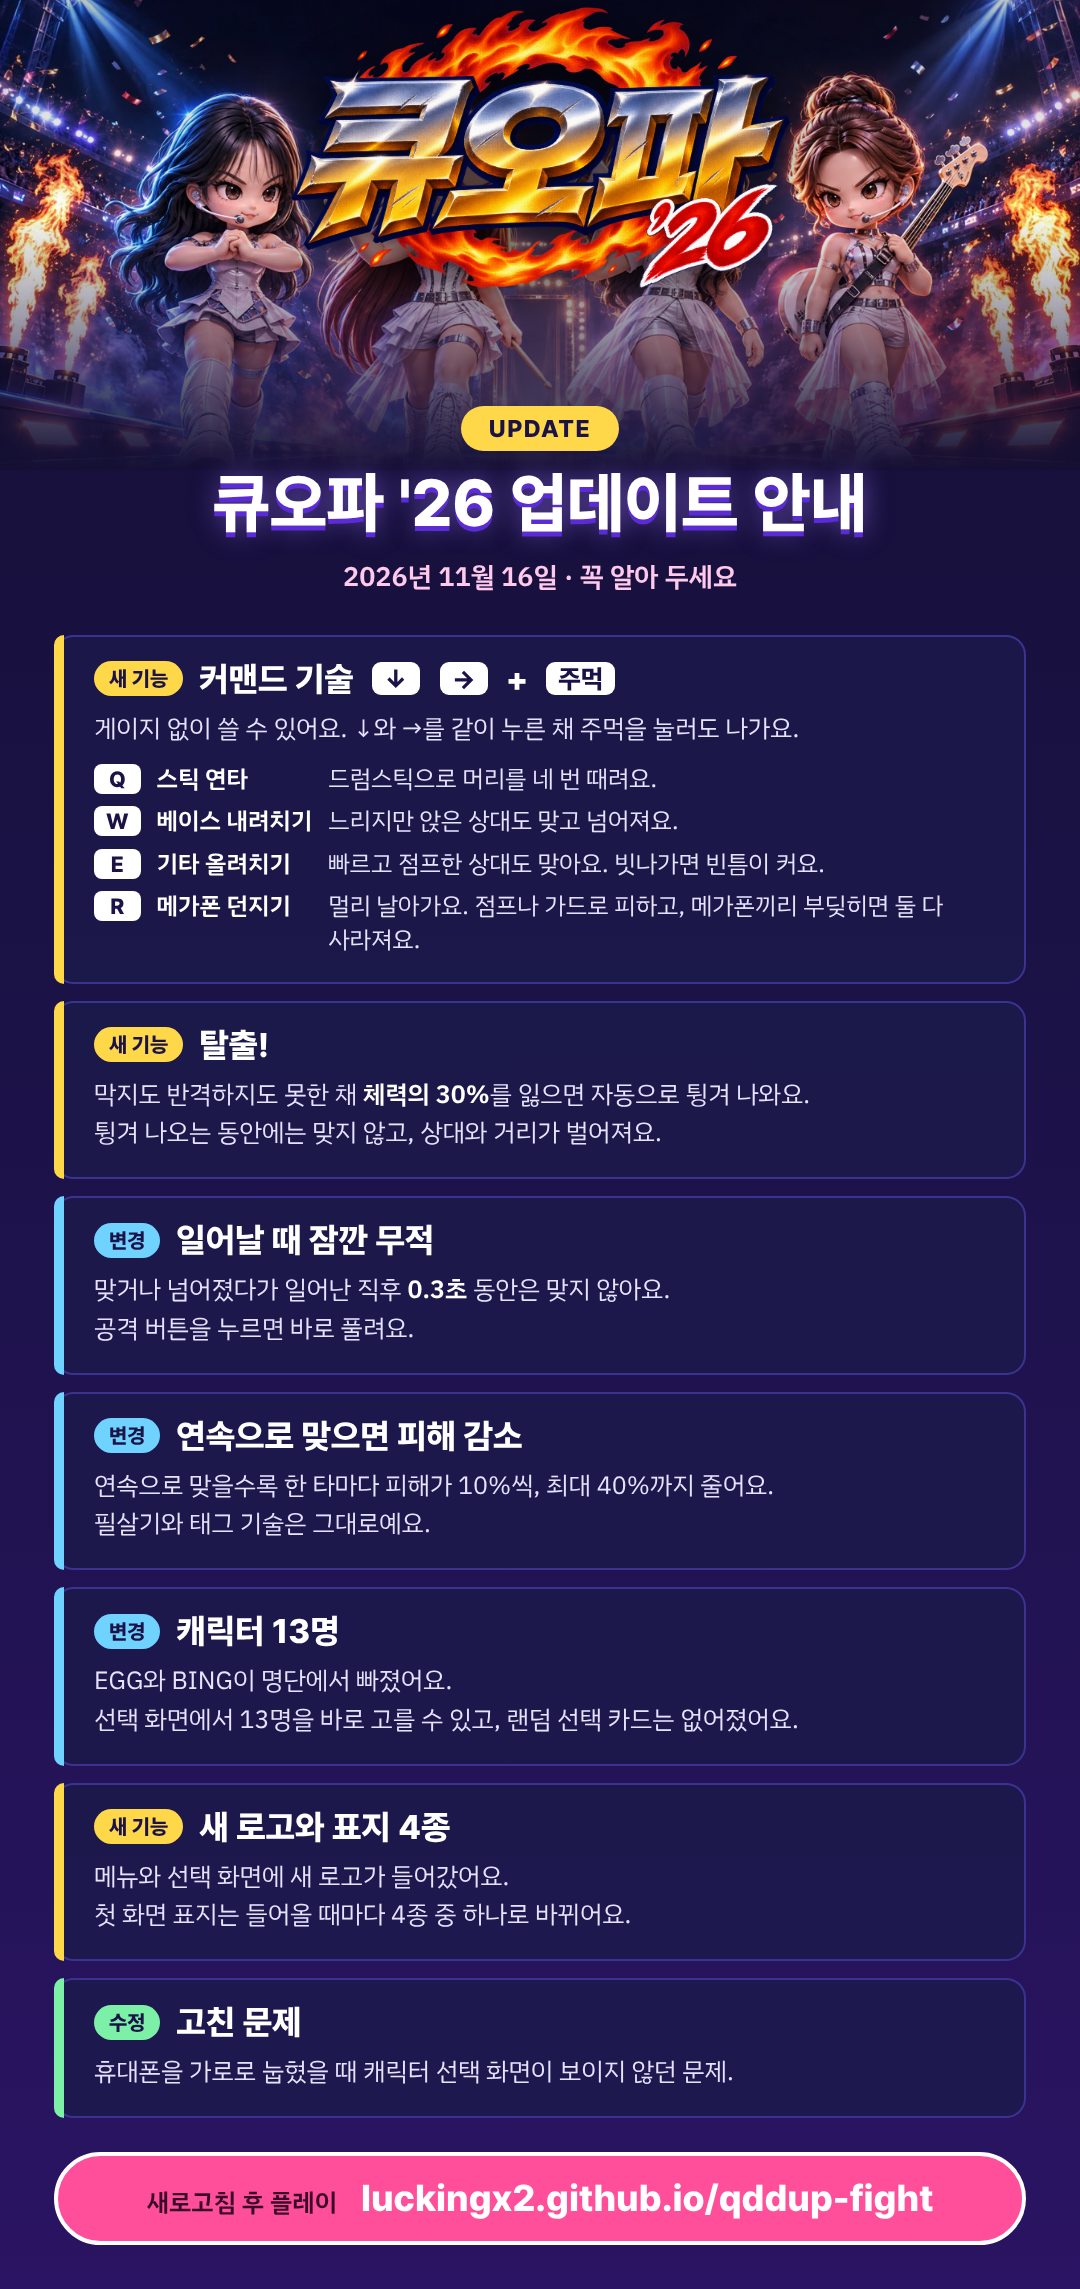
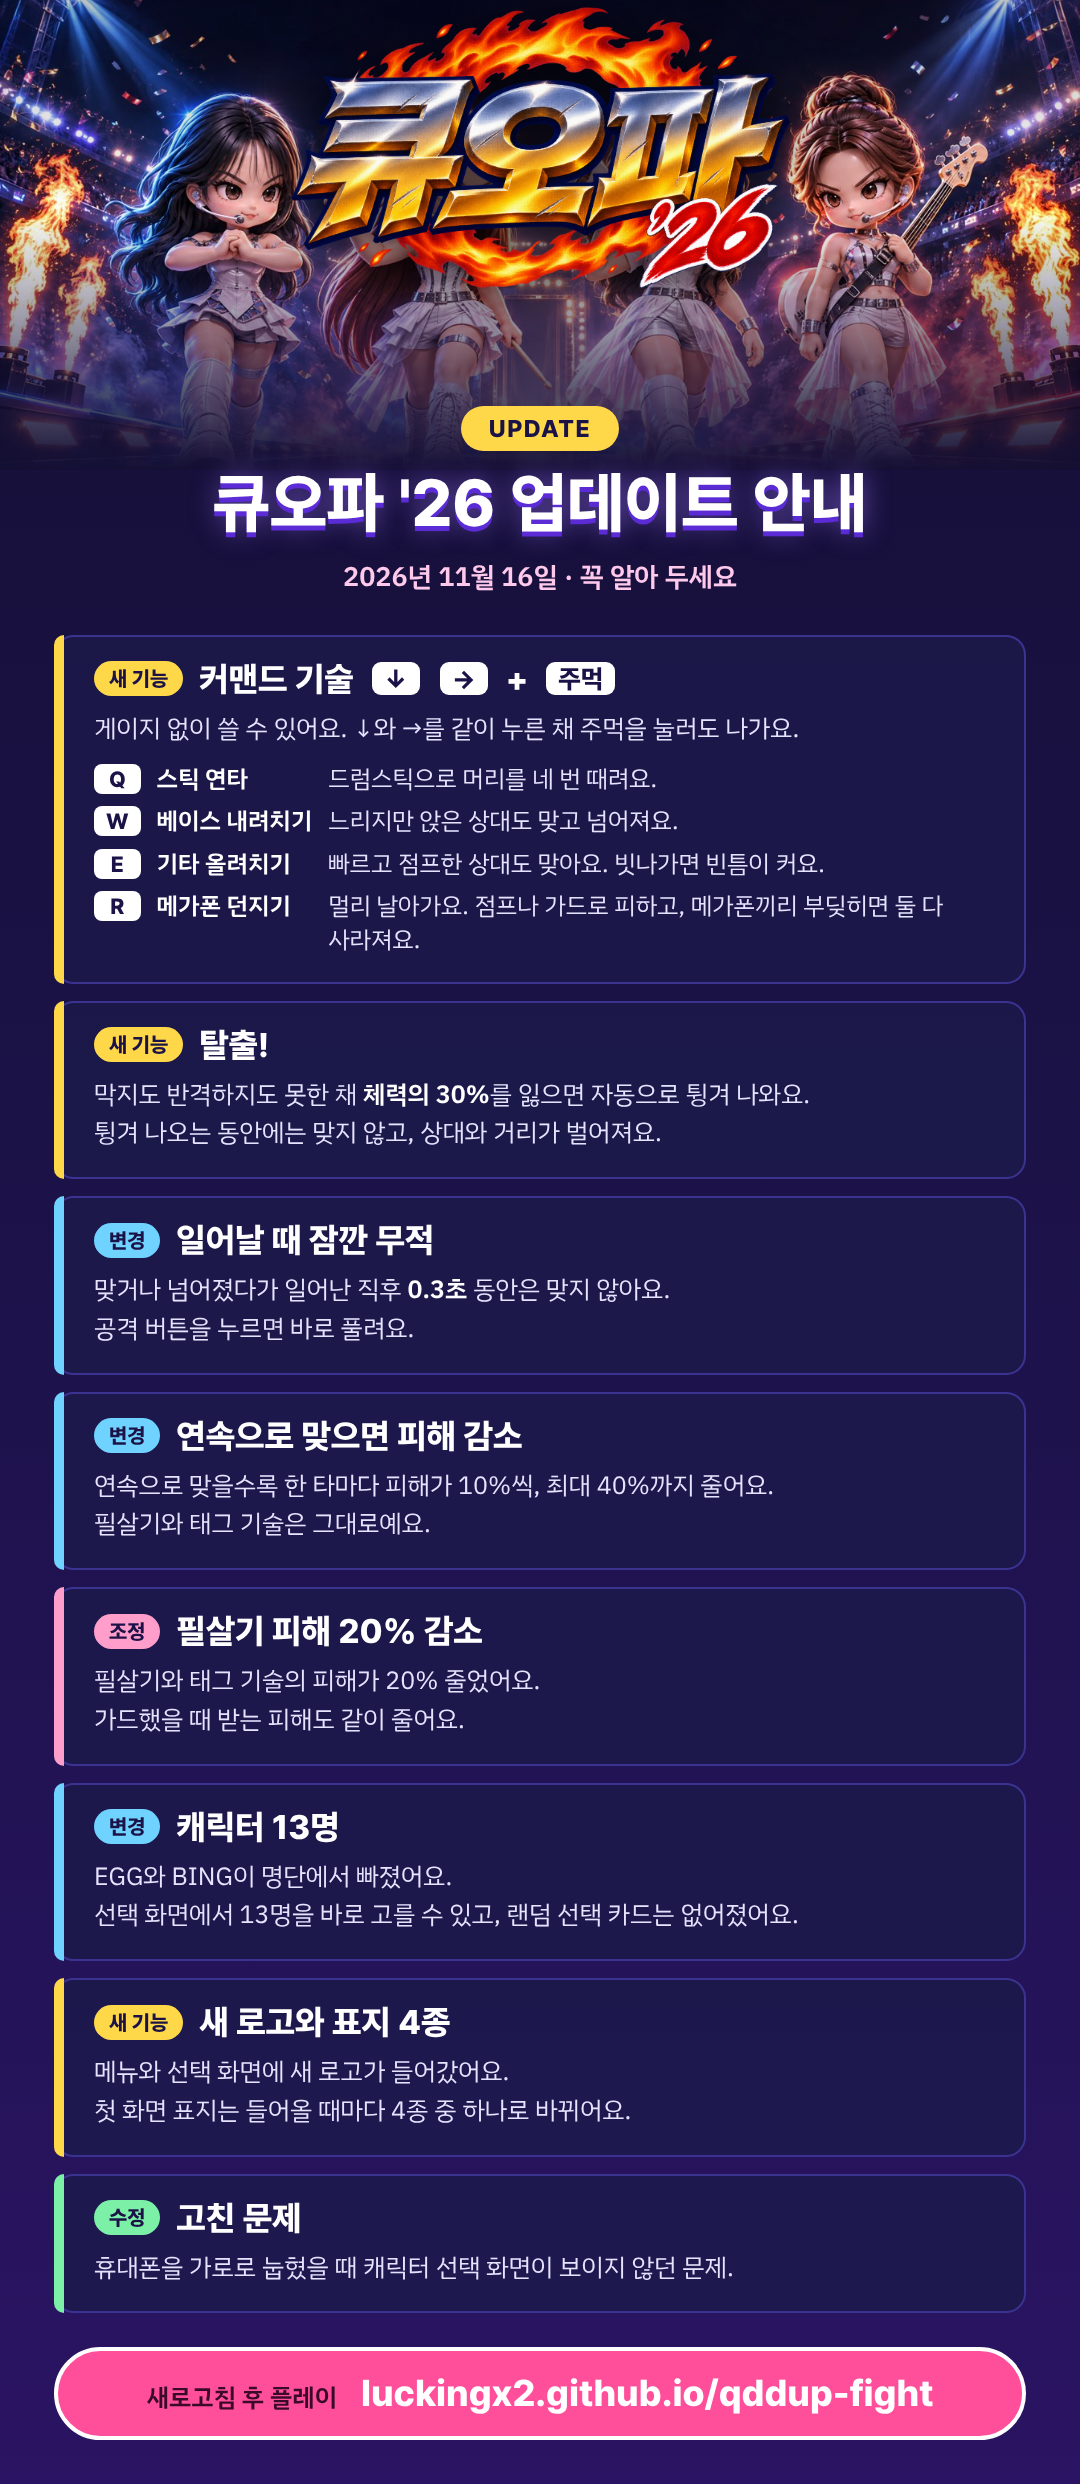
필살기·태그기 피해 20% 감소, 안내문 갱신 (배포 전)
Claude-Session: https://claude.ai/code/session_01NdxQTKJmcwDMuki8kQYjr5

diff --git a/tools/sim/measure_sp.js b/tools/sim/measure_sp.js
@@ -1,0 +1,15 @@
+;(function(){
+// CPU 대 CPU로 돌려 라운드당 필살기·태그 사용 횟수와 피해 비중을 잰다
+const DT=T.DT;let rounds=0,use=[0,0,0,0,0],spDmg=0,allDmg=0,tag=0,maxSp=0,ko=0,dur=0,spKills=0;
+const _apply=applyHit;applyHit=function(f,o,a){const h=o.hp;_apply(f,o,a);const d=h-o.hp;if(d>0){allDmg+=d;if(a.sp){spDmg+=d;if(o.hp<=0)spKills++}}};
+const _cut=startCut;startCut=function(f){f.spUse=(f.spUse||0)+1;if(f.sv===2)tag++;_cut(f)};
+for(let rep=0;rep<3;rep++)for(const a of ORDER)for(const b of ORDER){if(a===b)continue;
+  T.boot(a,b,3);think=T.think0;P.cpu=true;P.spUse=C.spUse=0;
+  let i=0;for(;i<60*62&&phase==='fight';i++){think(P,C,DT);const s=P.inp,h={l:s.l,r:s.r,up:s.up,down:s.down};held.l=h.l;held.r=h.r;held.up=h.up;held.down=h.down;buf.p=s.p?.05:0;buf.k=s.k?.05:0;buf.s=s.s?.05:0;buf.t=s.t?.05:0;buf.g=s.g?.05:0;P.inp.gd=s.gd;update(DT)}
+  rounds++;dur+=i/60;if(phase==='ko')ko++;
+  for(const f of[P,C]){const n=Math.min(4,f.spUse||0);use[n]++;maxSp=Math.max(maxSp,f.spUse||0)}}
+const tot=use.reduce((x,y)=>x+y,0);
+console.log('라운드',rounds,'평균 길이(초)',(dur/rounds).toFixed(1),'KO로 끝남',(ko/rounds*100).toFixed(0)+'%');
+console.log('한 라운드에 한 명이 쓴 필살기+태그 횟수 분포 0/1/2/3/4+:',use.map(n=>(n/tot*100).toFixed(0)+'%').join(' / '),'최대',maxSp);
+console.log('전체 피해 중 필살기·태그 비중',(spDmg/allDmg*100).toFixed(0)+'%','필살기로 끝난 KO',(spKills/Math.max(1,ko)*100).toFixed(0)+'%');
+})();

diff --git a/js/fight.js b/js/fight.js
@@ -28,6 +28,8 @@ function dust(x){for(let i=0;i<8;i++)fx.push({k:'p',x:x+(Math.random()-.5)*80,y:
 let zone=null,flood=null;
 // 연속 피격 보호: 타수마다 피해 감소, 한도를 넘으면 맞던 쪽이 무적으로 튕겨 나감, 경직·다운이 풀린 직후 잠깐 무적
 const COMBO={step:.1,floor:.6,limit:.3,window:2,wake:.3};
+// 필살기·태그기 피해 전체 배율 (1이면 예전 그대로)
+const SPECIAL_POWER=.8;
 function breakAway(f,o){
   o.pr=0;o.brk=0;if(o.hp<=0||o.st==='ko')return;
   setSt(o,'kd');o.stun=.7;o.down=false;o.vy=430;o.y=Math.max(o.y,.01);o.vx=(o.x>=f.x?1:-1)*620;o.lock=1;o.inv=1.3;
@@ -36,7 +38,7 @@ function breakAway(f,o){
   fx.push({k:'d',x:o.x,y:GROUND-o.y-330,t:0,d:1,txt:'탈출!'});shake=Math.max(shake,10)}
 function applyHit(f,o,a){
   if(o.lock===1&&!a.pj||o.st==='charge'||o.inv>0)return;
-  let damage=a.dmg*(a.sp?CH[f.ch].special:1);
+  let damage=a.dmg*(a.sp?CH[f.ch].special*SPECIAL_POWER:1);
   const hx=(f.x+o.x)/2+f.face*20,hy=GROUND-o.y-(a.hy||130);
   if(o.st==='guard'&&o.y<=0&&o.face===-f.face&&!a.ub){
     o.hp=Math.max(1,o.hp-damage*(a.sp?.28:.1)*CH[o.ch].guard);o.vx=f.face*a.push*.45;o.t=Math.min(o.t,.05);o.stun=.14;

diff --git a/index.html b/index.html
@@ -145,7 +145,7 @@
 <script src="js/controls.js?v=e72aa610"></script>
 <script src="js/cutin.js?v=de670ff4"></script>
 <script src="js/emote.js?v=fe681610"></script>
-<script src="js/fight.js?v=a274b995"></script>
+<script src="js/fight.js?v=d7c3f1d4"></script>
 <script src="js/ai.js?v=1de03b4e"></script>
 <script src="js/update.js?v=bd9d78fe"></script>
 <script src="js/render.js?v=04638836"></script>

diff --git a/TODO.md b/TODO.md
@@ -614,3 +614,12 @@
 - `index.html`의 빌드 번호를 20261116105500으로 변경, `stamp.py` 실행
 - 이용자용 안내문 `RELEASE_NOTES.md` 추가
 - 이용자용 업데이트 안내 이미지 `notice/update-notice-1116.png`(1080×2289) 추가. 기존 `update-notice.png`와 같은 형식에 새 로고와 표지 그림을 얹음. 게임에서는 쓰지 않음
+
+**필살기 피해 20% 감소 (개발 중, 아직 배포 안 함)**
+- 사용자 요청: 필살기를 라운드당 횟수 제한하거나 파워를 낮추거나 둘 중 하나
+- 측정(`tools/sim/measure_sp.js`, 컴퓨터끼리 468라운드): 한 라운드에 한 명이 필살기·태그를 쓴 횟수는 0회 7%, 1회 92%, 2회 1%, 3회 이상 없음. 횟수 제한(1회)은 지금과 거의 차이가 없어 파워를 낮추는 쪽으로 결정
+- `fight.js`의 `SPECIAL_POWER=.8`: 필살기·태그기(`sp`) 피해 전체에 곱함. 가드 피해도 같이 줄어듦. 커맨드 기술·마무리 기술·잡기는 해당 없음
+- 측정(수정 후): 전체 피해 중 필살기·태그 비중 16% → 13%. 라운드 평균 길이 19.7초 → 19.9초
+- 사람끼리 대전에서는 맞을 때 게이지가 더 빨리 차서 2회 쓰는 경우가 컴퓨터보다 많을 수 있음(미측정). 필요하면 횟수 제한을 추가
+- 캐릭터 소개 페이지의 "필살기 피해 %"는 캐릭터 간 상대값이라 그대로 둠
+

diff --git a/RELEASE_NOTES.md b/RELEASE_NOTES.md
@@ -7,6 +7,9 @@
 - 연속으로 맞을수록 피해가 줄어듭니다. 한 타마다 10%씩, 최대 40%까지 줄어듭니다. 필살기는 그대로입니다.
 - 막지도 반격하지도 못한 채 체력의 30%를 잃으면 "탈출!"과 함께 자동으로 튕겨 나와 거리가 벌어집니다.
 
+### 필살기 피해 감소
+- 필살기와 태그 기술의 피해가 20% 줄었습니다. 가드했을 때 받는 피해도 같이 줄었습니다.
+
 ### 새 커맨드 기술: ↓ → + 주먹
 게이지 없이 쓸 수 있습니다. ↓와 →를 같이 누른 채 주먹을 눌러도 나갑니다.
 
